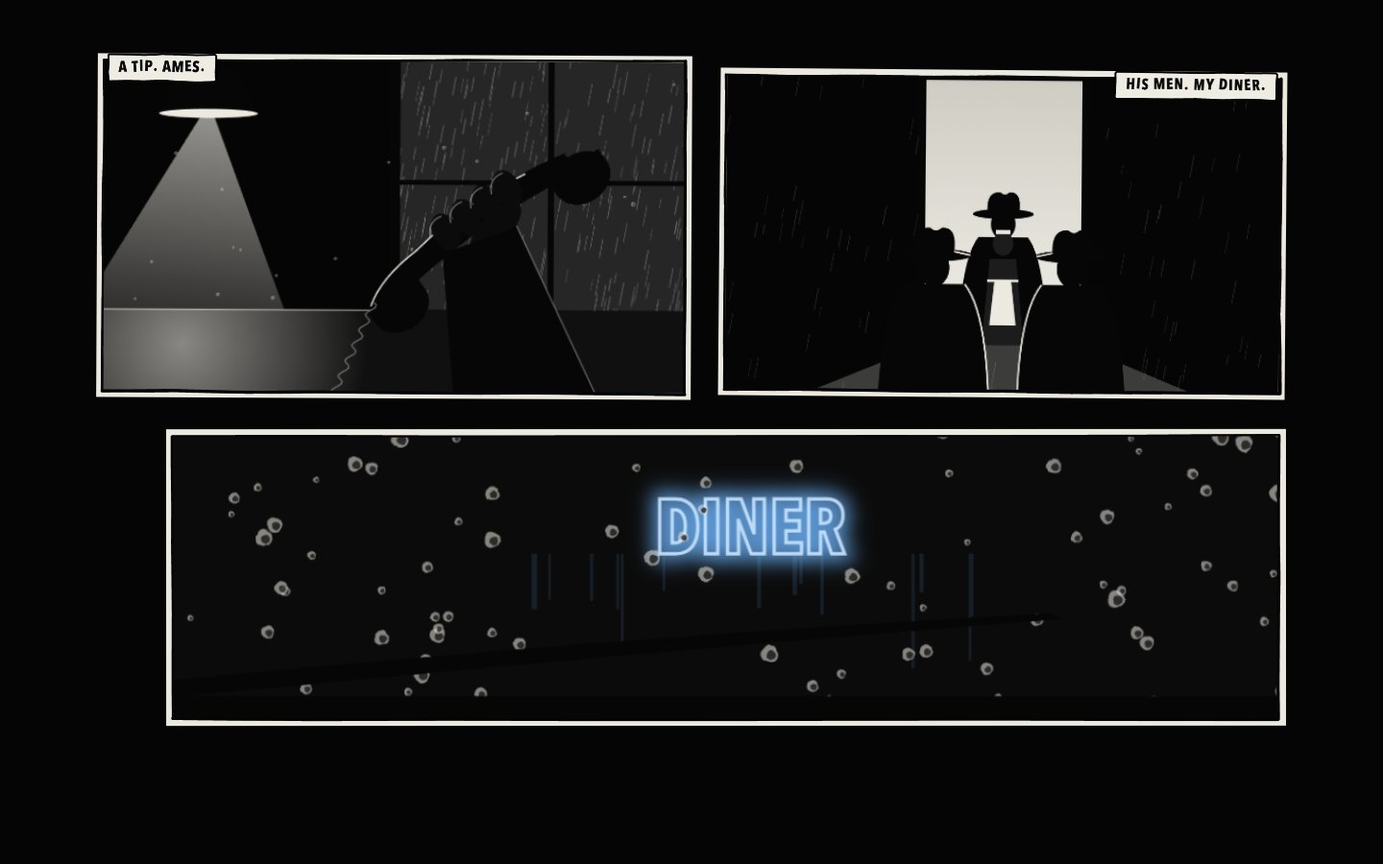
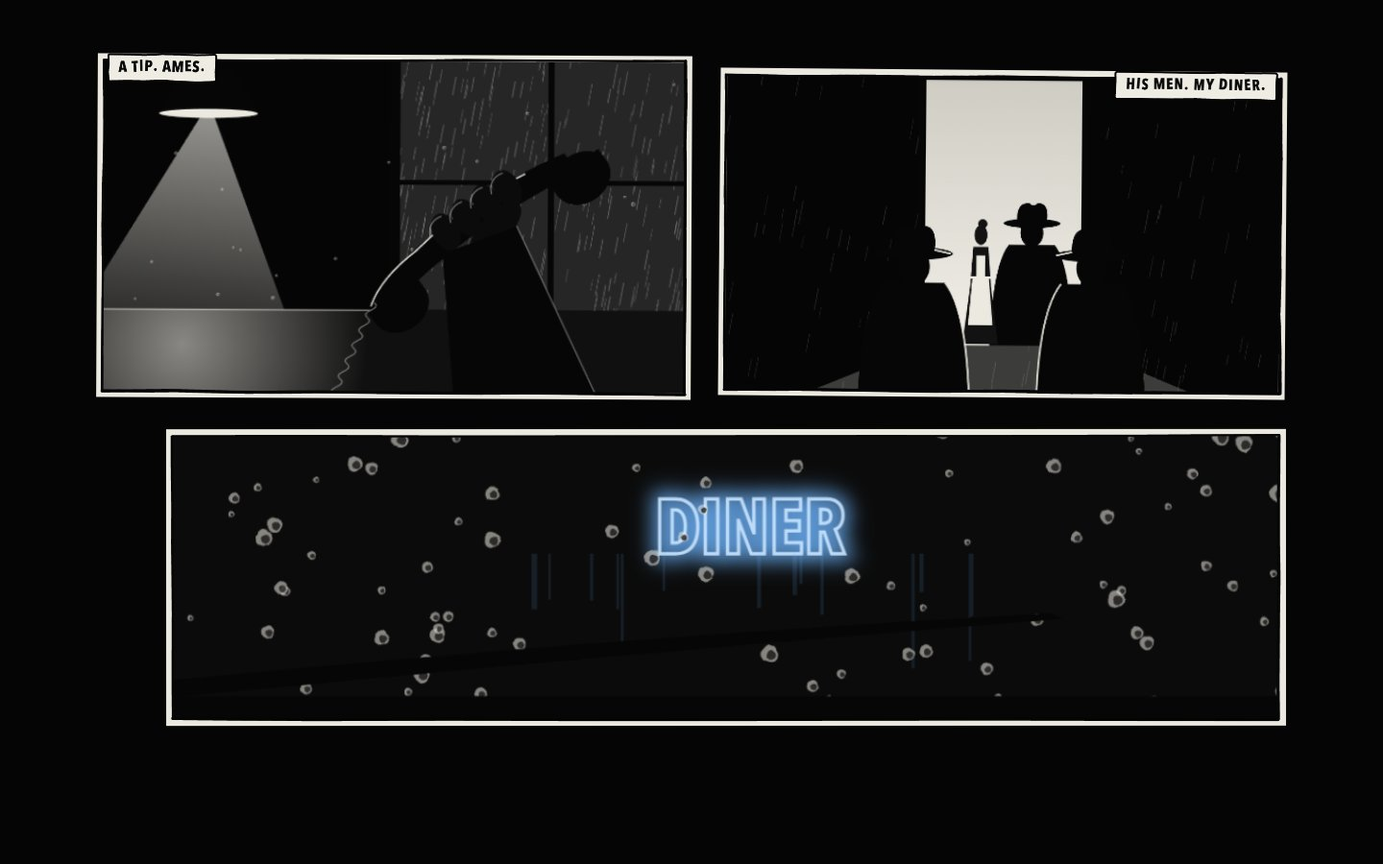
C1 after the critic: the report brought up to date (After the critic: each finding, what was done, the play that proves it; the gate on the final code; what is open) and the review frames (the lines, the cards, the warning low, Ames's card, Dot, the skip under a lock, the pause card's keys)

Changed region(s): [[0.6562, 0.2178, 0.7812, 0.4667], [0.8125, 0.4044, 0.8438, 0.4667], [0.625, 0.4044, 0.6562, 0.4667]]

diff --git a/docs/story/reports/wave-c/C1.md b/docs/story/reports/wave-c/C1.md
@@ -5,31 +5,45 @@ Branch `wave-c/C1-kit`, worktree `.claude/worktrees/wf_d820296d-929-1`, port
 read it first; this report is the handover (what is built, what was
 measured, what is open).
 
-**The cold player's findings** (played on 3a0af04, before the fixes) are in
-`docs/story/reports/wave-c/C1_CRITIC.md`, most felt first: the stand-in
-objective lines lie after the first beat (B1); IV and VIII go down with no
-warning (B2); no chapter teaches (M1); the warning sits on the target (M2);
-the end of II never shows Ames's card (M3); ESC on the stills in a real
-browser (M4). Its plays are `tools/plays/critic/`.
+**The cold player's findings** (played on 3a0af04) are in
+`docs/story/reports/wave-c/C1_CRITIC.md`; its plays are `tools/plays/critic/`.
+They are answered in **"After the critic"** below (every blocker, major and
+minor fixed and proven by a play; what is left is named there).
 
 ## What a player feels
 
 - **BEGIN** opens on three comic panels over black (the tip, his men at my
-  diner, the neon through a wet windscreen), landing one after another on one
-  page, each with a soft paper sound; a click, E, SPACE or Enter moves on
-  (never within 0.4 s of a panel landing), ESC twice skips. Then the diner
-  comes up out of the black under card I as before. CONTINUE, CHAPTERS and
-  `?start=` play no stills.
-- **An objective line**, top left, from the first second of every chapter:
-  brushed in with a dry-brush sound, full strength for 2.5 s, then quiet; a
-  changed goal strikes the old line through first. The diner has one per
-  beat (`Light up. Watch the room.`, `Order a drink.`, `Drink. Watch the big
-  man.`, `Pay the tab.`); every other chapter shows its stand-in from
-  `order.js` until its lane declares its own.
+  diner with Dot's white apron between them, the neon through a wet
+  windscreen), landing one after another on one page, each with a soft paper
+  sound; a click, E, SPACE or Enter moves on (never within 0.4 s of a panel
+  landing), ESC twice skips (the hint at the page's foot says so). Then the
+  diner comes up out of the black under card I as before. CONTINUE, CHAPTERS
+  and `?start=` play no stills. Under a real pointer lock the browser's own
+  ESC counts as the first press, and after the skip the diner comes up with
+  a quiet "click to take the mouse" instead of the pause card.
+- **An objective line**, top left, true for the beat I am in, in every
+  chapter: brushed in with a dry-brush sound, full strength for 2.5 s, then
+  quiet; a changed goal strikes the old line through first. The diner's
+  (`Light up.` struck through when it is lit, `Watch the room.`, `Order a
+  drink.`, `Drink. Watch the big man.`, `Pay the tab.`); every other chapter
+  a stand-in per beat from `order.js` (VIII `Take the gun.` then `Hold the
+  diner.`, III `Open the safe.` at the safe, VI `Make him talk.` at the
+  water, VII `Put him down.` in the fist fight...), taken down in a beat
+  that has none, until its lane declares its own.
+- **The warning before going down**: in a gunfight, health falling under 45
+  with a hit puts up "You're hit. Get to cover." low in the frame (under what
+  I aim at); nobody goes down before a warning has been up a second (IV hands
+  off: warned 7 s before the fall; VIII: 4 s).
+- **The guns are taught**: IV shows `[LMB] fire` then `[C] get low` as the
+  revolver comes out before the door goes in; VIII `[LMB] fire` as the Tommy
+  gun is taken (once per save). The title and the pause card list the
+  rulebook's keys (fire, steady, block, vault, dodge, get low, reload, run).
+- **The end of II** shows Ames's card, crossed through in red (`AMES.
+  MARKED.`), before III asks me to find him.
 - **Mack's line** is now about her, not me: "She's got nothing to say to
   you." (WAVE_C §6 I; the slice play checks it).
-- **The chapters** are eight (The Body is cut); II ends straight into III
-  Room 304 with the matchbook and Ames's card in the coat.
+- **The chapters** are eight (The Body is cut); II ends on Ames's card and
+  goes straight into III Room 304 with the matchbook and the card in the coat.
 - **A loss** (`game.fail`) is a short fall or a hard stop, black, a few
   hand-lettered words on the black, and back at the beat: 2.4 to 3.3 s to
   control. Going down to health zero anywhere in the story now does this
@@ -38,29 +52,76 @@ browser (M4). Its plays are `tools/plays/critic/`.
   beat cues that beat's slot; the title stops the end's music; the foreman's
   fist fight at Pier Nine now plays the `fight` slot.
 
+## After the critic (2026-10-02, on top of 024d411 + the C4-C8 briefs merged from integration)
+
+Every finding of `C1_CRITIC.md`, in the order a player meets it, what was
+done, and the play that shows it (all by real input on a `vite build` +
+`vite preview` on 5341: other lanes' saves reload the dev server's pages).
+
+| finding | what was done | proven by |
+| --- | --- | --- |
+| **M4** ESC on the stills under a real lock ends on PAUSED; a quick double tap does nothing | `Stills.escPress(src)`: a key event and the lock's loss within 160 ms are one press seen twice, two key events are two presses however quick. A run that ends with the mouse let go no longer shows the pause card: the scene comes up as it would, a quiet line `click to take the mouse`, the click takes it (`main.js` `mouseFree`); after 8 s without a click, a hit, a warning or ESC, the pause card and the game held. A refused lock (Chrome refuses one for a moment after an ESC) asks again instead of pausing | `kit_esc.json` 9 of 9: the browser's ESC stood in by letting the lock go, then a real ESC skips; no pause card, the diner runs, a click locks; a 30 ms double tap skips; key + lock loss is one press; the pause card after 8 s, the game held. **Not tried by hand in a headed Chrome**: the desktop app's browser pane refuses pointer lock outright, and the user's own Chrome was not touched |
+| **m1** the skip hint is invisible | 13 px, `#c9c6be` (white once ESC is pressed), centred at the page's foot, `click: next · esc esc: skip`; it also came back blank on every run after the first (its fade was never reset): fixed | `05`-style frame `e00` in kit_esc; `s18b` in slice |
+| **m2** panel 2 shows one man | recomposed: the lit doorway, Dot small against its light (a bun, the dress, the white apron), the third man inside to one side, the two at the door framing her with their hats cut into the light | `14_opening_dot.jpg` |
+| **m3** `Light up. Watch the room.` outlives half of itself | `Light up.` struck through when the cigarette is lit, then `Watch the room.` (one `[C1]` line in `01_diner.js`) | `kit.json` (the strike and the new line), `slice.json` |
+| **M3** the end of II never shows Ames's card | after the matchbook is put away and the two far shots: the `ames` still (`AMES. MARKED.`, the card with his name and ROOM 304), then III comes up out of its black. The stills player now blacks the scene under its page, so a run played inside a scene ends on black and either carries it into the next scene or rises in the same one (`scenes.rise`) | `slice.json` 31 of 31 and `continue.json` 8 of 8 (the still between the matchbook and III; `s18b_ames_card`), `13_end_of_II_ames_card.jpg` |
+| **B1** the stand-in lines lie after the first beat | `order.js` gives every chapter an `objectives` map naming every beat of its wave B scene (VIII `arrive` 'Take the gun.', `cars`..`driveby` 'Hold the diner.', `cardinal` 'Here he comes. Stop him.'; III `room` 'Ames is dead. Search the room.', `safe` 'Open the safe.'; IV `shadows` 'Watch the door. Get ready.' - it also tells a cold start where to look -, `quiet` null; V `seen` 'Check the street.', `car` 'Get to your car.'; VI `close` 'Put him off the road.', `interrogate` 'Make him talk.'; VII `listen` 'Stay down. Listen.', `fight` 'Put him down.'; II `matchbook` 'Pocket it.'). `SceneManager.setBeat` takes a stand-in down in a beat that has none (unless the scene set its own line since); `defineScene` marks a chapter's lines as stand-ins (`objStandIn`) and a scene file that declares its own takes over its chapter's lines whole. VIII says 'Hold the diner.' the moment the gun is taken | `kit_lines.json` 15 of 15: VIII from CHAPTERS by real input (take the gun, cars), IV from CHAPTERS (shadows, door), the take-down tested by removing IV `quiet`'s line, and cold starts at `office.safe`, `watcher.car`, `watcher.seen`, `tail.interrogate`, `warehouse.fight`, `shootout.cardinal`, `fight.matchbook` |
+| **M1** no chapter teaches; the key line lacks fire, SPACE, C, R | stand-in teach cards (`[C1]` lines): IV `[LMB] fire` then `[C] get low` as the revolver comes out in `shadows`; VIII `[LMB] fire` as the gun is taken. The title and pause card carry the rulebook (WAVE_C §2) on two lines | `kit_lines.json` (both IV cards, C pressed gets me low; VIII's card); `16_pause_rulebook.jpg`; the title golden re-accepted |
+| **B2** IV and VIII go down unwarned (and the cheat: `onPlayerDeath` with no warning; Z.md's exemption for hits) | the exemption is gone. The kit's own warning (`Game.lowStep`, `LOW` in Game.js): in the story, outside a fist fight, health under 45 with a hit in the last second puts up the scene's `lowWarn` or **'You’re hit. Get to cover.'** (cover, not "get down": VIII has no crouch), off as health mends past 60. It is a second source under the scene's own (`hud.kit.low`), so a scene that sets `warn(null)` every step (the bed, a chase) never puts it out. And the rule that makes it hold: **a hit that would take the last of health while no warning has been up a second leaves one instead** (`Game.spareLast`, a `[C1]` hook in `Health.damage`, `health.spared` counts it): it delays a fall by about a second at most and wins nothing | `kit_warned.json` 5 of 5: IV hands off from CHAPTERS, warned at hp 39, down 7.1 s later, back at `shadows` in under 10 s; VIII hands off after taking the gun, warned at hp 44, down 3.9 s later. `kit_downs.json` 11 of 11 (a 150 hit from full leaves one with the warning up; the next, a second later, is the fall, `warnedFor` >= 1) |
+| **M2** the warning sits on the target | `.kwarn` at 71 % (under the aim, above the prompt at 16 % from the foot); a teach card up at the same time lifts to 33.5 % above it (`#hud.kwarned`, eased) | `04_warning_and_teach.jpg` (the bed: the man clear, the card above the line), `11_door_warned_low.jpg` |
+| **m4** the mouse glyph's black button reads as missing | a dark mouse with a light rim, the button to press lit white with its letter (L / R) | `03_teach_card.jpg`, `10_door_cards.jpg` |
+| **m5** the bed is easy for clumsy hands | the bed's man takes three body hits (hp 120; two was won at once by a clumsy hand) | the critic's own `c1_kit_bad.json`, twice: 1 fail then the win; 2 fails then the win. `kit_bad.json`: 2 fails then the win, and once a lucky head shot in 3 s (a head shot is one hit, as everywhere). `kit_good.json`: 2 wins, 0 fails, 6 shots 6 hits |
+
+**Cheats.** `onPlayerDeath` without a warning: replaced by the rule above
+(a tell that cannot be skipped). The written-down mercies stay, because none
+wins and each is said: the bed's walker after two fails (idle still loses on
+the walking rounds: `kit_idle` 3 of 3), VIII's aim mercy (C8's; idle still
+died: `kit_warned`), a held teach card's 6 s (time resumes). The autopilot /
+battle warm-up heal in `onPlayerDeath` is not reachable from the story.
+
+**What the critic said to keep, kept**: the fail's shape and timing (2.4 to
+3.5 s, input dead under the black), the objective line's look and manners,
+the teach card (once per save, again after two fails), the warning's look
+(only its height moved), the stills player, the saves, the order, the music
+rule; `slice.json` 31 of 31 (its 29 and the two new checks of Ames's card);
+31 golden frames identical and `title` changed on purpose (below).
+
+**For other lanes** (said in the final answer too): C5, IV's cold start from
+CHAPTERS faces the blinds and the first hits come from behind: the camera
+taken to the door glass (WAVE_C §6 IV) is yours, and the retry facing the
+desk teaches more than the first try. Every lane that rebuilds a chapter
+declares every beat's line itself (`objectives`), keeps or moves the
+stand-in teach cards (IV, VIII), and may give `lowWarn` its own words. C2:
+`Health.damage` has a two-line `[C1]` hook (`spare`); keep it when you
+rework health. C4: the `ames` still is played as a stand-in where II ends.
+
 ## What is built, where
 
 | file | what |
 | --- | --- |
-| `src/ui/kit.js` | the objective line, the teach card, the warning, the fail's words (the DOM, the timers) |
+| `src/ui/kit.js` | the objective line, the teach card, the warning (two sources: the scene's `warn`, the kit's own `low`; low in the frame, a card lifts above it), the fail's words (the DOM, the timers) |
 | `src/ui/lettering.js` | comic hand lettering, key caps, mouse glyphs, the caption box, the strike stroke |
 | `src/ui/Hud.js` [C1] | `hud.objective`, `hud.teach` (+ `.again`, `.dismiss`), `hud.warn`, `setStilled`, `setFailing`; `hud.kit`, `hud.game` |
-| `src/game/Game.js` [C1] | `fail`, `fails`, `setCheckpoint`, `failUpdate` (the timeline, real time), `crawl` (a held teach card), `stills`; `onPlayerDeath` -> fail in the story; `start` plays the opening stills on BEGIN; `toTitle` stops the music; `live` is false while failing |
+| `src/game/Game.js` [C1] | `fail`, `fails`, `setCheckpoint`, `failUpdate` (the timeline, real time), `crawl` (a held teach card), `stills`; `onPlayerDeath` -> fail in the story; `start` plays the opening stills on BEGIN; `toTitle` stops the music; `live` is false while failing; `LOW`, `lowStep` (the warning as health falls), `spareLast` (no fall before a warning has been read) |
+| `src/player/Health.js` [C1] | two lines in `damage`: the hit that would take the last is spared while `health.spare()` says so (`health.spared` counts) |
 | `src/game/Stills.js` | the stills player (pages, panels, drift, captions, input, ducking, `?still=` shots) |
 | `src/stills/*.js`, `_art.js` | the six runs of WAVE_C §5 with placeholder pictures drawn at load |
-| `src/game/SceneManager.js` [C1] | skips `_*.js` scene files; objective declarations; the music rule (`applyMusic`); the chapter's carry; a fade that starts from black stays black (`k0`), `hold` |
-| `src/game/script.js` [C1] | `defineScene` takes the chapter's kit defaults from `order.js` |
+| `src/game/SceneManager.js` [C1] | skips `_*.js` scene files; objective declarations (`objectiveFor`; a stand-in taken down in a beat with none, `objMark`); the music rule (`applyMusic`); the chapter's carry; a fade that starts from black stays black (`k0`), `hold`; `rise` (up out of a still's black in the same scene) |
+| `src/game/script.js` [C1] | `defineScene` takes the chapter's kit defaults from `order.js`; `objStandIn` (a scene's own lines take over its chapter's whole) |
 | `src/game/Save.js` [C1] | v2; a v1 save dropped quietly; flags keep one level of plain objects |
-| `src/scenes/order.js` | eight chapters, each with its stand-in objective, music, beatMusic, carry, flags |
-| `src/main.js` [C1] | the game held under the stills (and the 3D frame not drawn); the fail's timeline per frame; `crawl` on the step clock; `?still=`, `obj=`, `warn=`, `teach=`, `fail=` look params; the counters carry the kit's state |
+| `src/scenes/order.js` | eight chapters, each with its stand-in line for every beat, music, beatMusic, carry, flags |
+| `src/main.js` [C1] | the game held under the stills (and the 3D frame not drawn); the fail's timeline per frame; `crawl` on the step clock; `?still=`, `obj=`, `warn=`, `teach=`, `fail=` look params; the counters carry the kit's state; `mouseFree` (a run ended with the mouse let go: the scene comes up, a click takes the mouse, the pause card only after 8 s / a hit / a warning / ESC) |
 | `src/scenes/92_kit.js`, `src/enemies/brains/kit_walker.js` | the kit's test bed (`?start=kit`): a man runs up the avenue at me; a contest that uses every part of the kit |
 | `src/audio/sounds/kit.js` | kit_write, kit_strike, kit_teach, kit_warn, kit_fail, kit_paper, kit_page |
 | `tools/lib/kit_bot.mjs`, `tools/plays/kit*.json` | the plays (below) |
 
 Edits to other lanes' files, each marked `[C1]` and kept to a line or two
 (their lanes rebuild these scenes; merge by keeping both):
-`01_diner.js` (objectives, Mack's line), `02_fight.js` (pockets `amesCard`
-with the matchbook), `04_office.js` (pockets `check`, `flags.note = 'PIER
+`01_diner.js` (objectives, `Watch the room.` once lit, Mack's line),
+`02_fight.js` (pockets `amesCard` with the matchbook, then plays the `ames`
+still), `05_gunfight.js` (IV's two stand-in teach cards), `09_shootout.js`
+(VIII's fire card and 'Hold the diner.' once the gun is taken),
+`04_office.js` (pockets `check`, `flags.note = 'PIER
 9'` with the ledger), `office/room.js` (`carry`: the new names),
 `06_watcher.js` (`INV`: the new names), `08_warehouse.js` (the fight no
 longer stops the music: the rule cues `fight`), `05_gunfight.js` and
@@ -80,8 +141,11 @@ gets `cursor()`: where to press so the view does not jump).
 | `kit_good.json` | proof 3: the taught player (tracks, RMB, R) wins twice in a row, no fail (4 shots, 4 hits) | 2 of 2, twice |
 | `chapters.json` | eight rows I to VIII in the new order, The Body not a scene, a row starts III with the matchbook and Ames's card and the stand-in objective, no stills, a v2 save | 11 of 11 |
 | `continue.json` | a v1 save is dropped (no CONTINUE), a v2 save continues at the fight's last blow, no stills, the walk out, the matchbook and the card, on into III | 8 of 8 |
-| `slice.json` | the stills by clicks, I and II whole by real input, the diner's objective, Mack's new line, on into III | 29 of 29 |
-| `kit_downs.json` | going down through the kit: IV (back at the shadows, its quick retry kept: the door shut, the revolver out), VIII (back in the doorways, `keepWorld`, its mercy counting), the test bed's default 'Down.' and `setCheckpoint`'s words; never THE END in the story | 9 of 9 |
+| `slice.json` | the stills by clicks, I and II whole by real input, the diner's objective, Mack's new line, Ames's card, on into III | 31 of 31 |
+| `kit_downs.json` | going down through the kit: a 150 hit from full leaves one with the warning up, the next a second later is the fall; IV (back at the shadows, its quick retry kept: the door shut, the revolver out), VIII (back in the doorways, `keepWorld`, its mercy counting), the test bed's default 'Down.' and `setCheckpoint`'s words; never THE END in the story | 11 of 11 |
+| `kit_lines.json` | every beat's line: VIII and IV from CHAPTERS by real input (their cards too), the take-down of a stand-in, cold starts at seven later beats | 15 of 15 |
+| `kit_warned.json` | IV and VIII hands off: warned, then down, back in under ten seconds | 5 of 5 |
+| `kit_esc.json` | ESC on the stills as a real browser has it; a double tap; one press seen twice; the pause card after 8 s without a click | 9 of 9 |
 
 Parked under `tools/plays/_wave_b/` (they pass through The Body; lane C10
 rebuilds the whole-game play): `whole.json`, `saves.json`, `body.json`,
@@ -92,8 +156,9 @@ rebuilds the whole-game play): `whole.json`, `saves.json`, `body.json`,
 - **`?kitdemo=1` in the range** became a test bed of its own, `?start=kit`
   (`92_kit.js`): the revolver's range (B3's) stays as it was, and the kit
   gets a real little contest (a man running at me, side to side between the
-  parked cars, two hits to stop him) on which the three proofs of WAVE_C §7
-  can be run by real input. Mercy: after two fails he walks.
+  parked cars, three body hits or one in the head to stop him: two was won by
+  a clumsy hand at once) on which the three proofs of WAVE_C §7 can be run by
+  real input. Mercy: after two fails he walks.
 - **The chapters' defaults live in `order.js`** (stand-in objective, music,
   beatMusic, carry, flags), not in each scene file: the other lanes are
   rewriting those files, and a scene's own `defineScene` keys win. So the
@@ -113,8 +178,14 @@ rebuilds the whole-game play): `whole.json`, `saves.json`, `body.json`,
 - **The objective line and a teach card wait for the chapter card** (and the
   stills, and a fail's black) before they come: under the card the player
   never saw the line written, nor the first second of a card.
-- II gets per-beat stand-in lines (`ko` 'Go out to him.', `outside`
-  'Search him.'): "Put the big man down." stayed up after he was down.
+- Every chapter gets a stand-in line per beat (after the critic: one line
+  per chapter stayed up and lied); a stand-in is taken down in a beat that
+  has none.
+- **The kit's own warning and the spared hit** (after the critic): the
+  warning before a fall from a hit is the kit's, not each gun lane's, so no
+  lane can forget it; and the floor (no fall before a warning has been up a
+  second) is what makes "a warning before every fail" true when one burst
+  takes 50 at once.
 - The music rule as the brief words it: a scene that declares nothing (the
   test beds) stops the music as it is entered from another scene; `'room'`
   (I, II) is the one way to say "leave the record playing".
@@ -125,14 +196,64 @@ rebuilds the whole-game play): `whole.json`, `saves.json`, `body.json`,
 
 ## Review frames (`docs/story/review/wave-c/C1/`, 1440 x 900)
 
-`01_opening_page` (the opening run, its page of three: placeholders),
-`02_diner_objective` (I, settle: the line top left), `03_teach_card` (the
-test bed: `[LMB] fire`), `04_warning_and_teach` (the warning over the teach
-card as he comes close), `05_fail_black` (the words on the black),
-`06_still_ames`, `07_still_check`, `08_still_photo` (three of the other
-runs' placeholder pages).
+`01_opening_page` (the opening run, its page of three: placeholders; Dot now
+in the second), `02_diner_objective` (I, settle: the line top left),
+`03_teach_card` (IV: `Watch the door. Get ready.` and `[LMB] fire`, the
+new mouse glyph), `04_warning_and_teach` (the bed: the warning low, under
+the man, the steady card lifted above it), `05_fail_black` (the words on the
+black), `06_still_ames`, `07_still_check`, `08_still_photo` (three of the
+other runs' placeholder pages), and after the critic:
+`09_objective_block_take` (VIII arrive: `Take the gun.` with `E take it`),
+`10_door_cards` (IV: `[C] get low`), `11_door_warned_low` (IV hands off:
+"You're hit. Get to cover." at hp 39), `13_end_of_II_ames_card` (the still
+between II and III), `14_opening_dot` (panel 2 recomposed),
+`15_after_skip_click` (ESC ESC under a lock let go: the diner comes up, "click
+to take the mouse", no pause card), `16_pause_rulebook` (the pause card's
+keys). The critic's own frames are in `critic/`.
 
-## Gate
+## Gate (after the critic, on the final code: a `vite build` served by `vite preview` on 5341)
+
+1. `npm run build`: passes (the usual chunk-size note only).
+2. `python3 tools/golden.py check`: 31 of 32 IDENTICAL; **`title` changed on
+   purpose** and re-accepted: its key line is now the rulebook's on two lines
+   (M1), the choices sit 30 px higher to make room; the picture is the same.
+   (`hood`, `battle_t15/30` and `perf` were NO CAPTURE once - the preview
+   server had been stopped under them, then `perf` under load - and
+   IDENTICAL on their retry.)
+3. `tools/errors.sh` clean on **every beat of every chapter** (51 beats,
+   `hud=1` so the kit's lines run), the bed's two beats and four stills
+   pages.
+4. The plays, twice each by real input (1280 x 800 unless said):
+
+   | play | run 1 | run 2 |
+   | --- | --- | --- |
+   | `kit_lines` (B1, M1; 1440 x 900 in run 1) | 15 of 15 | 15 of 15 |
+   | `kit_warned` (B2, M2; 1440 x 900) | 5 of 5 (IV warned 7.1 s before the fall, VIII 3.9 s) | 5 of 5 (same) |
+   | `kit_esc` (M4, m1) | 9 of 9 | 9 of 9 |
+   | `kit` | 19 of 19 | 19 of 19 |
+   | `kit_idle` (proof 1) | 5 of 5 (3 fails, warned 4.3 s before) | 5 of 5 (same) |
+   | `kit_bad` (proof 2) | 2 of 2 (a lucky head shot in 3 s: won, 0 fails) | 2 of 2 (1 fail, then won; 12 shots) |
+   | `kit_good` (proof 3) | 2 of 2 (2 wins, 0 fails, 6 shots 6 hits) | 2 of 2 (same) |
+   | `kit_downs` | 11 of 11 | 11 of 11 |
+   | `chapters` | 11 of 11 | 11 of 11 |
+   | `continue` | 8 of 8 | 8 of 8 |
+   | `slice` | 31 of 31 | 31 of 31 |
+
+   Earlier the same day on this code: `kit_bad` 2 fails then the win; the
+   critic's `c1_kit_bad` 1 fail then the win, and 2 fails then the win. One
+   first attempt at run 1's `kit_warned` hung at Chrome's start (no frame, no
+   CPU for 20 minutes: the machine's known hung headless Chrome); I stopped
+   my own play and its Chrome and ran it again.
+5. The jank walk: no place of mine changed (the bed's man runs the same path;
+   only his health changed).
+6. Frame rate, once, back to back at 1440 x 900 uncapped, with another lane's
+   plays loading the GPU (59 % and 82 % busy before the runs, so the absolute
+   numbers mean nothing): `shot=perf&t=1&anim=1` 39.4 fps (p95 31.9 ms, 729
+   calls); the bed with the man running and the warning up,
+   `scene=kit&beat=ready&t=4&hud=1&warn=...`, 38.9 fps (p95 31.7 ms, 674
+   calls): **ratio 0.99**.
+
+## Gate (the first handover, 3a0af04: kept for the record)
 
 1. `npm run build`: passes (the usual chunk-size note only).
 2. `python3 tools/golden.py check`: 32 of 32 IDENTICAL, on the final code
@@ -184,24 +305,36 @@ runs' placeholder pages).
 - The stills' pictures are placeholders (flat ink shapes); lane C9 makes
   them. The layout (one page of three for the opening) is mine to judge with
   the real pictures.
-- No chapter but I uses the kit beyond its stand-in objective line and (IV,
-  VIII) the shared fall yet: every lane moves its losses to `game.fail` with
-  a warning first (V's "Lost him.", VI's, VII's cosh still roll their own
-  black), its teaching to `hud.teach` (II's fight cards, V's vault, VII's
-  crouch are their own), its objectives to `objectives: {}`. IV and VIII
-  still set `health.onDeath` themselves (now calling `game.fail`): their
-  lanes may move to `onDown`.
+- The chapters other than I use the kit through stand-ins only: a line per
+  beat from `order.js`, IV's and VIII's teach cards, the kit's own warning
+  before a fall from a hit, and (IV, VIII) the shared fall. Every lane moves
+  its own losses to `game.fail` with a warning first (V's "Lost him.", VI's,
+  VII's cosh still roll their own black), its teaching to `hud.teach` (II's
+  fight cards, V's vault, VII's crouch are their own prompts), its lines to
+  its own `objectives`. IV and VIII still set `health.onDeath` themselves
+  (now calling `game.fail`): their lanes may move to `onDown`.
+- IV from CHAPTERS faces the blinds and is first hit from behind (C5's:
+  the camera to the door glass); the warning and 'Watch the door. Get ready.'
+  now say it, but the cold start still teaches less than the retry.
+- The stand-in lines are mine, written from what each wave B beat asks
+  today; a lane that changes a beat must change its line (or declare its
+  own), or the line will lie again.
 - The opening run plays its three panels on one page; whether one page of
   three or three full panels reads better is for the real pictures to say.
 - Nobody has heard the kit's sounds (every run is muted): their levels are
   set by the offline render only (gate 7 above; the paper's landing was
   0.02 at first, raised to 0.05). Turn them up or down by ear.
-- ESC under the pointer lock: headless Chrome hands the page both ESCs and
-  keeps the lock (the plays skip that way); a real browser takes the first
-  ESC for itself and lets the mouse go. The stills count that as the first
-  press (`lockLost`) and a click takes the mouse back; not yet tried in a
-  headed browser by hand. While the mouse is let go the panels still move on
-  by themselves; the pause card waits for the run's end.
+- ESC under a real pointer lock: `kit_esc.json` stands the browser's first
+  ESC in by letting the lock go (what the browser does), and everything after
+  it is real input; **nobody has yet pressed ESC ESC on the opening by hand
+  in a headed Chrome** (the desktop app's browser pane refuses pointer lock
+  outright, and the user's own Chrome was left alone). Whether Chrome also
+  hands the page the first ESC's keydown does not matter: a key event and
+  the lock's loss within 160 ms are one press.
+- The mouse let go after a skip: the scene runs for up to 8 s while the line
+  asks for a click. In the diner that is calm; a lane that plays a still
+  just before danger should know the pause card then comes after 8 s, or at
+  the first hit or warning.
 - `fight` (II) still rides the jukebox: when the needle is scratched off at
   his rise (half the time) the fight is silent. Lane C4 may cue `fight` then.
 - File numbers do not match the chapters (`04_office.js` is III); the order
